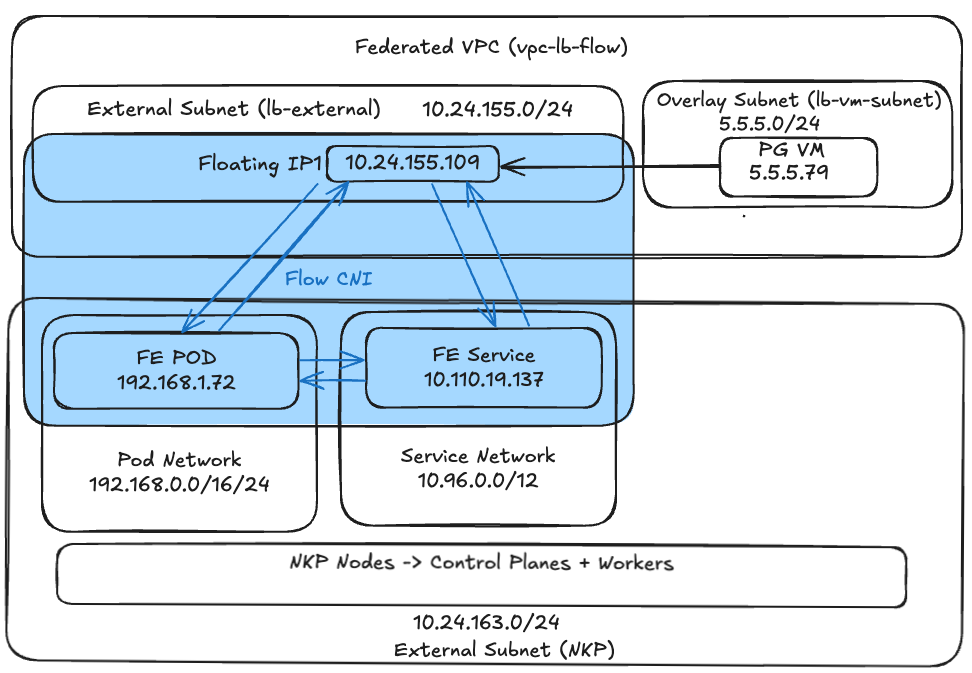
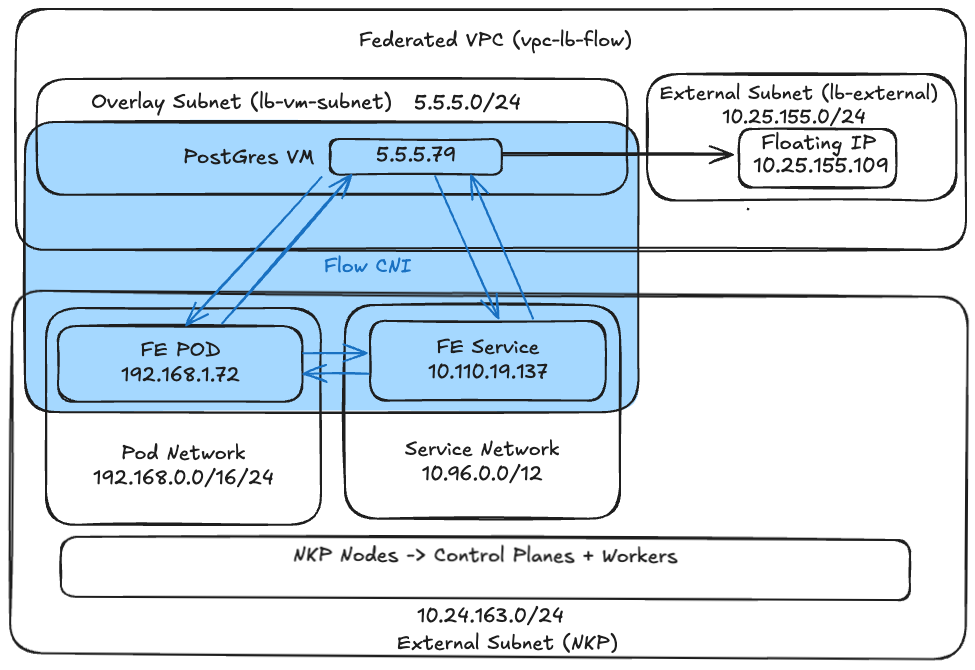
Update: Flow CNI netpol tests

Changed region(s): [[0.0, 0.0, 1.0, 1.0]]

diff --git a/docs/nkp_flow_cni/nkp_flow_deploy_app.md b/docs/nkp_flow_cni/nkp_flow_deploy_app.md
@@ -394,7 +394,6 @@ Now we will deploy the testing UI to your Kubernetes cluster.
         NAME                              READY   STATUS    RESTARTS   AGE     IP             NODE                          NOMINATED NODE   READINESS GATES
         flow-ovn-ic-7d6c5bdc87-pcxk7      1/1     Running   0          7h      10.24.163.48   flow-zfck9-57vxk              <none>           <none>
         network-tester-8688b44dd7-9bqvt   1/1     Running   0          16h     192.168.1.72   flow-md-0-4v9w6-b26pn-vbqwv   <none>           <none>
-        nginx-pod                         1/1     Running   0          6d19h   192.168.1.30   flow-md-0-4v9w6-b26pn-vbqwv   <none>           <none>
         ```
 
 2. Login to the VM using SSH (using exernal floating IP)
@@ -473,7 +472,7 @@ Now we will deploy the testing UI to your Kubernetes cluster.
         <Snipped for brevity>
         ```
 
-4. Run curl command to test in the application is running on the front end pods (instead of service) and to check connectivity
+5. Run curl command to test in the application is running on the front end pods (instead of service) and to check connectivity
 
     === ":octicons-command-palette-16: Command"
     
@@ -503,3 +502,141 @@ Flow CNI allows connectivity between VM, Pods and Services.
     ![](images/network-metrics.png)
 
 You now have a fully functional, repeatable testing harness to measure Nutanix Flow performance between your Kubernetes pods and your external infrastructure.
+
+
+## Flow CNI - Network Policy Tests
+
+### Pod to Pod Traffic Blocking
+
+We will define kubernetes network policy to restrict tranffic between pods
+
+1. Deploy a nginx container
+   
+    === ":octicons-command-palette-16: Command"
+    
+        ```bash
+        kubectl apply -f -<<EOF
+        apiVersion: v1
+        kind: Pod
+        metadata:
+          name: nginx-pod
+          labels:
+            app: nginx
+        spec:
+          containers:
+          - name: nginx
+            image: nginx:latest
+            ports:
+            - containerPort: 80
+        EOF
+        ```
+
+    === ":octicons-command-palette-16: Command output"
+    
+        ```{ .text .no-copy }
+        pod/nginx-pod created
+        ```
+
+2. Create a network policy to prevent all traffic outgoing traffic in network tester pod
+   
+    === ":octicons-command-palette-16: Command"
+    
+        ```bash
+        kubectl apply -f -<<EOF
+        apiVersion: networking.k8s.io/v1
+        kind: NetworkPolicy
+        metadata:
+          name: restrict-tester-egress
+          namespace: default 
+        spec:
+          podSelector:
+            matchLabels:
+              app: network-tester
+          policyTypes:
+          - Egress
+          egress:
+          - to:
+            - podSelector:
+                matchExpressions:
+                - key: app
+                  operator: NotIn
+                  values:
+                  - nginx
+        EOF
+        ```
+    
+    === ":octicons-command-palette-16: Command output"
+    
+        ```{ .text .no-copy }
+        networkpolicy.networking.k8s.io/restrict-tester-egress created
+        ```
+
+3. Set environment variables for nginx pod IP 
+   
+    === ":octicons-file-code-16: Template ``.env``"
+    
+        ```bash
+        export NGINX_IP=$(kubectl get po -l app=nginx -o jsonpath='{.items[0].status.podIP}')
+        ```
+
+4. Login to network tester pod and test connection to nginx pod
+   
+    === ":octicons-command-palette-16: Command"
+    
+        ```bash
+        kubectl exec -it ${POD_NAME} -- curl ${NGINX_IP}
+        ```
+    
+    === ":octicons-command-palette-16: Sample command"
+    
+        ```text
+        kubectl exec -it network-tester-8688b44dd7-9bqvt -- curl 192.168.1.30
+        ```
+
+5. Login to nginx pod and test connection to network test pod
+    
+    === ":octicons-command-palette-16: Command"
+    
+        ```bash
+        kubectl exec -it nginx-pod -- curl "${NGINX_IP}:8080"
+        ```
+    
+    === ":octicons-command-palette-16: Sample command"
+    
+        ```text
+        kubectl exec -it nginx-pod -- curl 192.168.1.72:8080
+        ```
+
+    === ":octicons-command-palette-16: Command output"
+    
+        ```{ .text .no-copy }
+        $ kubectl exec -it nginx-pod -- curl 192.168.1.72:8080
+        #
+        <!DOCTYPE html>
+        <html>
+        <head>
+            <title>NKP Network & DB Tester</title>
+            <style>
+                body { font-family: sans-serif; margin: 20px; background: #f4f4f9; }
+                .container { max-width: 900px; margin: auto; background: white; padding: 20px;
+                            border-radius: 8px; box-shadow: 0 4px 6px rgba(0,0,0,0.1); }
+                .controls { display:flex; gap:10px; margin-bottom:15px; flex-wrap:wrap; align-items:center; }
+                button { padding:10px 15px; cursor:pointer; background:#0056b3; color:white;
+                        border:none; border-radius:4px; font-weight:bold; }
+                button:hover { background:#003d82; }
+                .btn-danger { background:#dc3545; }
+                .btn-danger:hover { background:#a71d2a; }
+                input { padding:8px; border:1px solid #ccc; border-radius:4px; }
+                #console { background:#1e1e1e; color:#00ff00; padding:15px; height:500px;
+                        overflow-y:auto; font-family:monospace; border-radius:4px;
+                        white-space:pre-wrap; }
+            </style>
+        </head>
+        <body>
+        <div class="container">
+        <h2>NKP to Nutanix VM Tester</h2>
+
+        <Snipped for brevity>
+        ```
+
+We have successfully tested Flow CNI functionality with NKP (kubernetes) level network policies.

diff --git a/docs/nkp_flow_cni/nkp_flow_nkp_wrkld.md b/docs/nkp_flow_cni/nkp_flow_nkp_wrkld.md
@@ -11,15 +11,26 @@ In this section we will prepare the NKP Cluster with Flow CNI.
 
 This section will take you through install NKP(Kubernetes) on Nutanix cluster as we will be deploying Flow CNI on these kubernetes clusters and testing networking between containers and VMs.
 
+## Create a Jumphost VM
+
+Create a Jumphost VM in any available subnet or Nutanix cluster. 
+
+1. See instructions [here](../infra/workstation.md) to prepare your workstation (Mac/PC) with Tools
+2. See instructions [here](../infra/infra_jumphost_tofu.md) to create a Jumphost VM
+
 ## Create Externel Subnet
 
 We will create a external subnet to deploy the NKP cluster nodes. This has to be a separate network to the one that VM and containers will be sharing to communicate.
+
+!!! warning
+    
+    You must deploy the NKP clusters only on managed VLAN Basic (AHV-managed) subnets.
 
 !!! note
     
     The IP address schemes are for illustrative purposes. Choose your own subnet details.
 
-    Make sure to have enough IP (at least 3) addresses for nkpflow workload NKP cluster. See [here](../appendix/infra_nkp_hard_way.md#reserve-control-plane-and-metallb-endpoint-ips) for IP address requirement details for workload cluster.
+    Make sure to have enough IP (at least 2) addresses for ``nkpflow`` workload NKP cluster. See [here](../appendix/infra_nkp_hard_way.md#reserve-control-plane-and-metallb-endpoint-ips) for IP address requirement details for workload cluster.
 
 1. Go to **Prism Central** > **Networking** > **Subnets**
 2. Click on **Create Subnet** and fill the following details
@@ -37,11 +48,6 @@ We will create a external subnet to deploy the NKP cluster nodes. This has to be
         - **End Address**: ``10.24.163.60``
 3. Click on **Create**
 
-## Create a Jumphost VM
-
-- See instructions [here](../infra/workstation.md) to prepare your workstation (Mac/PC) with Tools
-- See instructions [here](../infra/infra_jumphost_tofu.md) to create a Jumphost VM
-  
 
 ## NKP High Level Cluster Design
 
@@ -69,13 +75,19 @@ For ``nkpflow``, we will deploy an NKP Cluster of with the following resources t
 
 ## Deploy NKP Management Cluster
 
-- Follow instructions [here](../appendix/infra_nkp_hard_way.md) to deploy a management cluster.
+1. Follow instructions [here](../appendix/infra_nkp_hard_way.md) to deploy a management cluster.
 
-- Ensure to license the Management cluster with at least NKP Pro License
+2. Ensure to license the Management cluster with at least NKP Pro License
   
-- Follow instructions [here](../appendix/infra_nkp_hard_way.md#license-management-cluster) to generate and license the NKP Management cluster.
+3. Follow instructions [here](../appendix/infra_nkp_hard_way.md#license-management-cluster) to generate and license the NKP Management cluster.
 
 ## Create Rocky Linux Base Image
+
+!!! warning
+    
+    You can deploy Flow CNI to extend VPCs with VM configurations to NKP-managed Kubernetes workload clusters only in Nutanix environments with the following Nutanix software versions:
+
+    **Nutanix Kubernetes Platform:** ``2.15`` or later with **Rocky Linux** operating system.
 
 
 1. Connect to the Jumphost VM using ``VSCode``